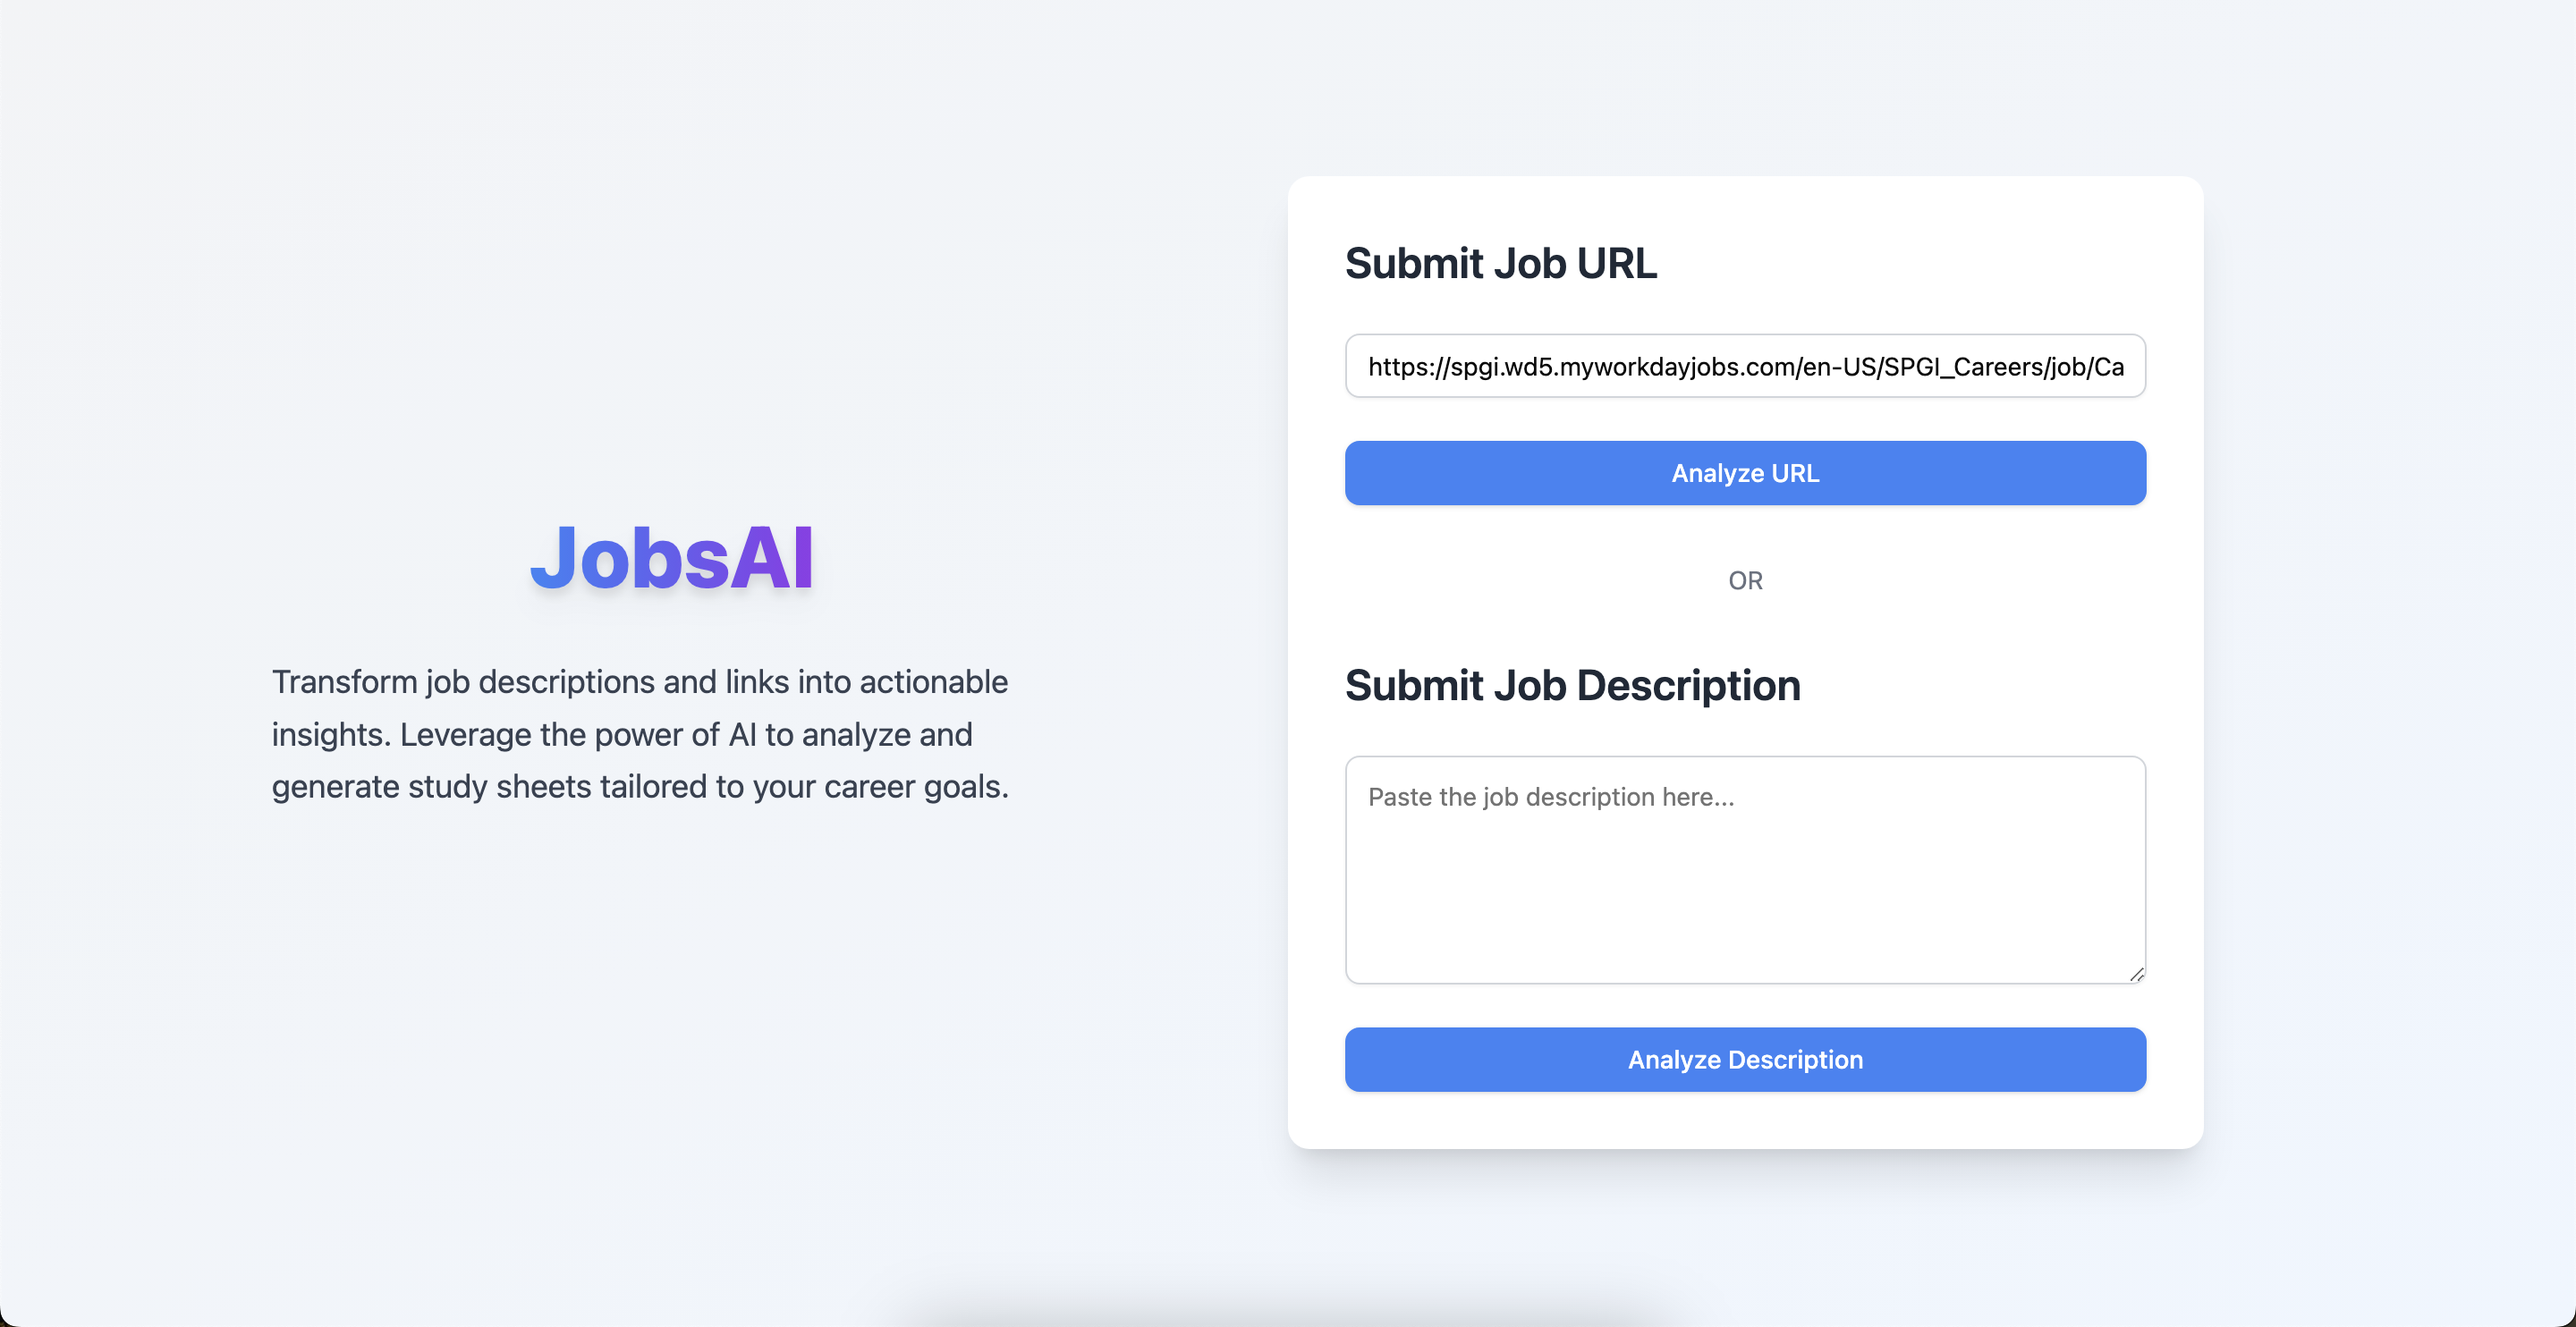
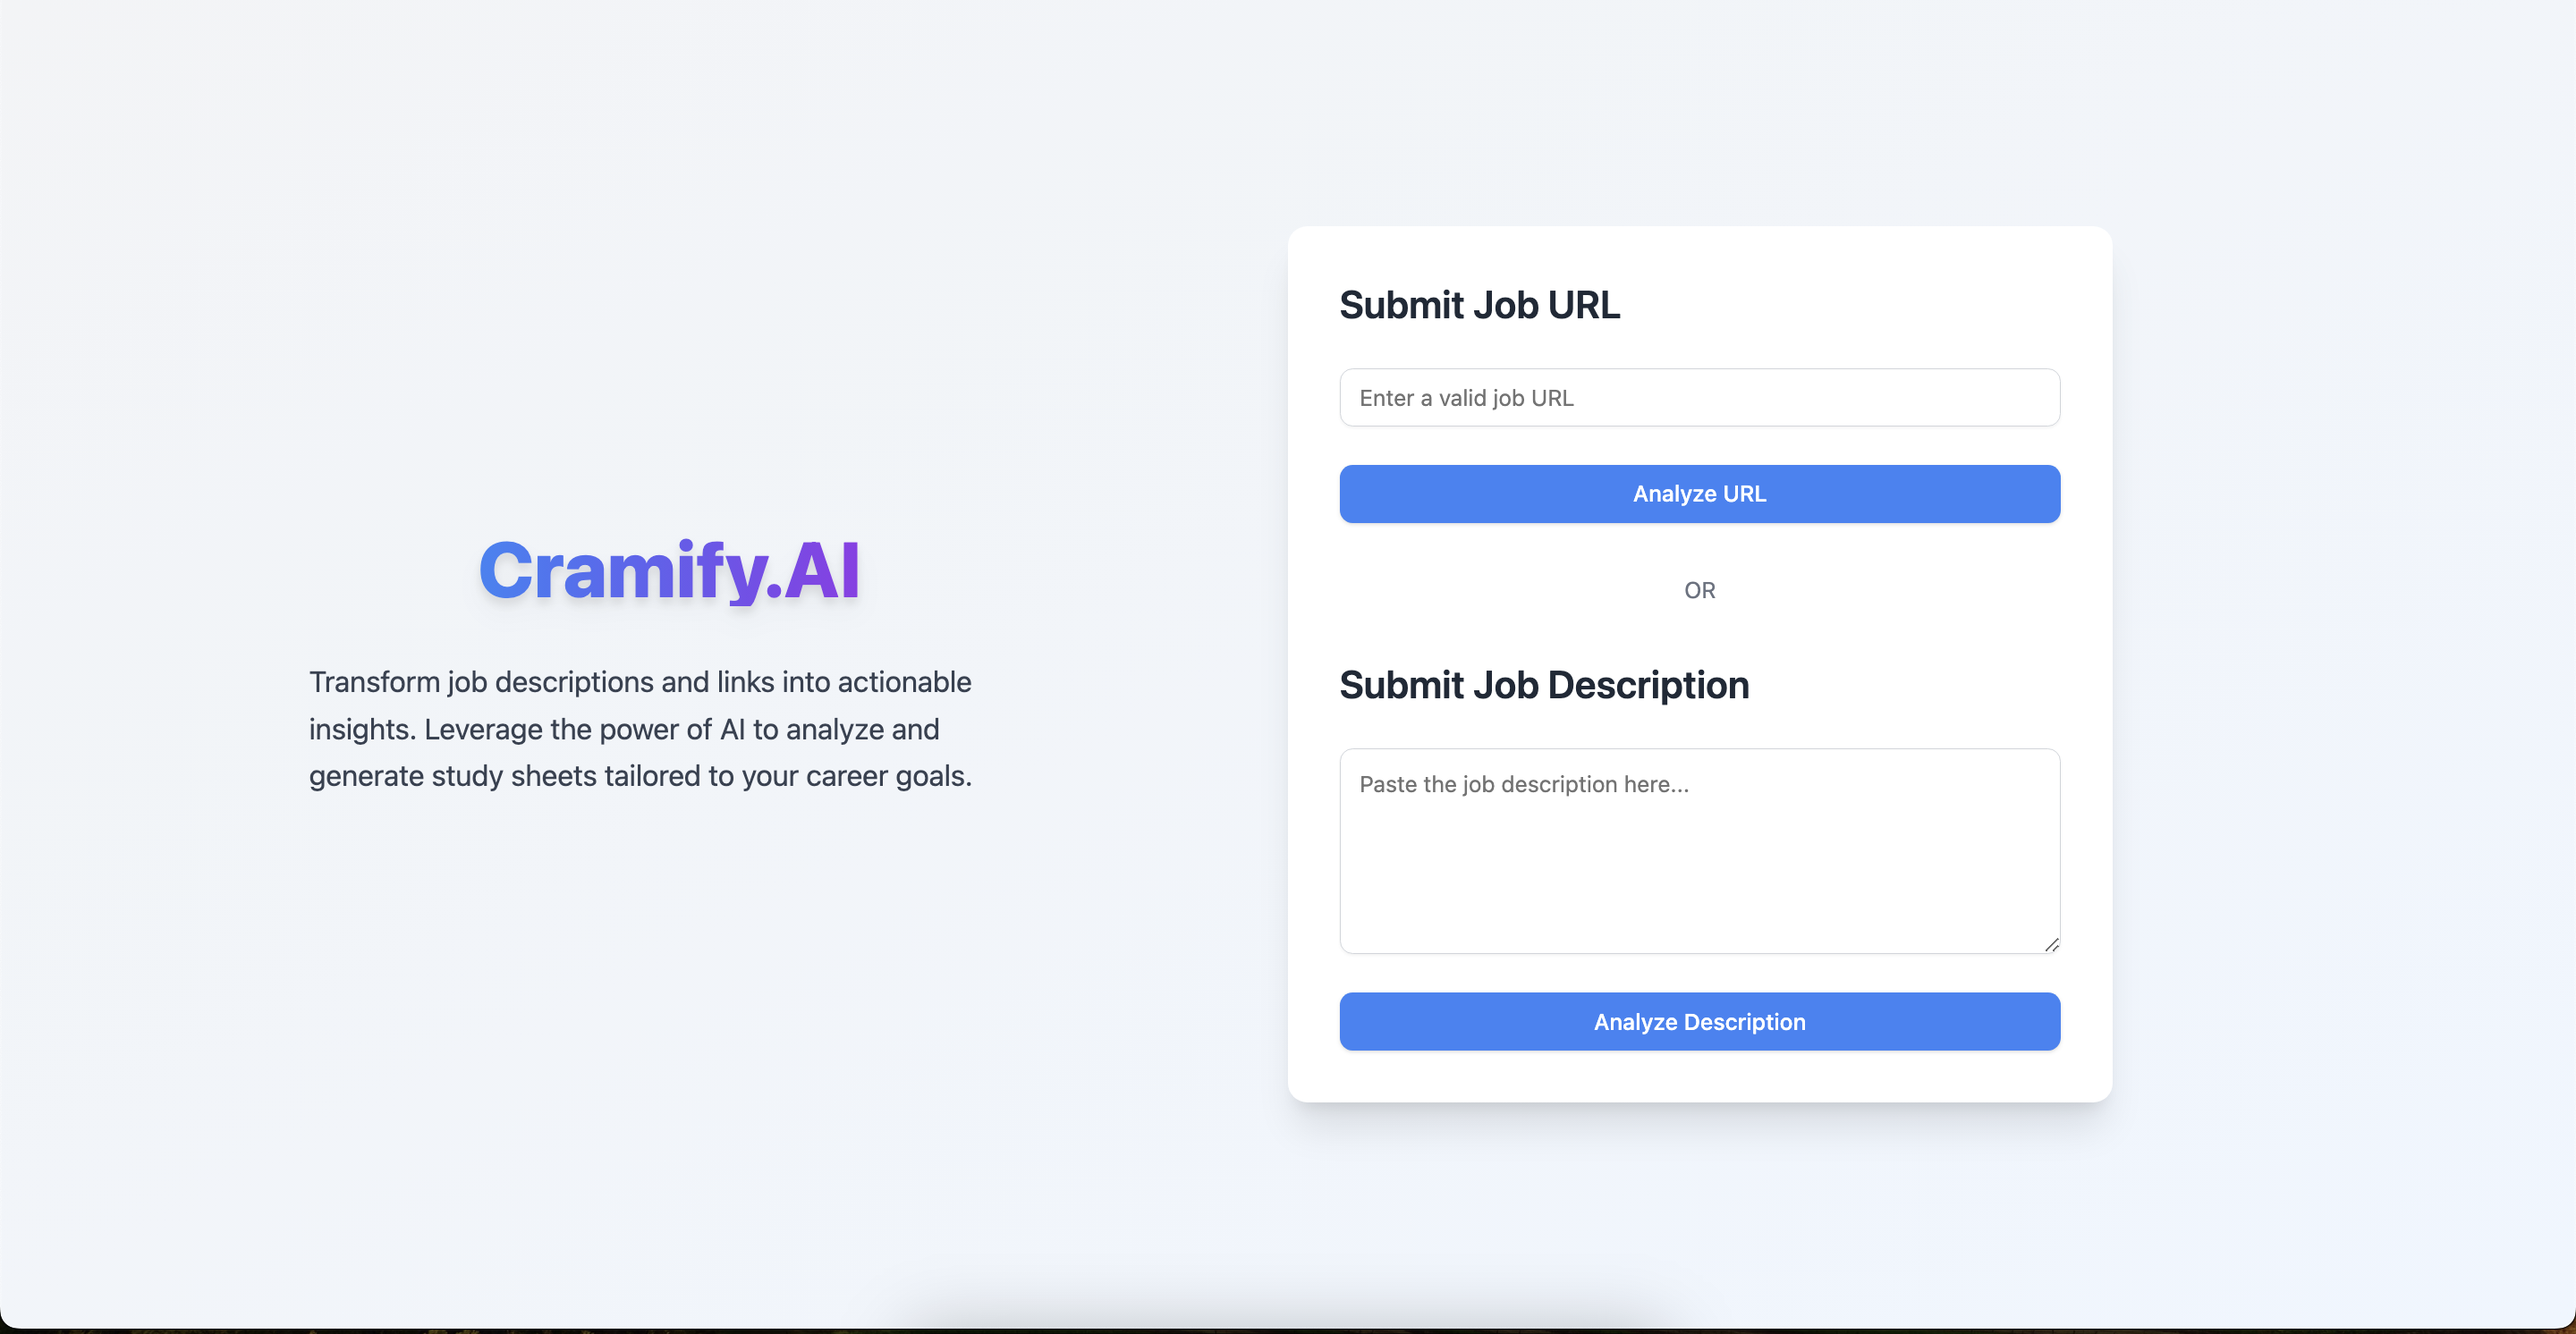
changed name

diff --git a/client/src/routes/landing.jsx b/client/src/routes/landing.jsx
@@ -109,7 +109,7 @@ export default function Landing() {
             {/* Heading Section */}
             <div className="flex flex-col items-center justify-center space-y-8 text-center md:text-left">
                 <h1 className="text-5xl font-extrabold text-transparent bg-clip-text bg-gradient-to-r from-blue-500 to-purple-600 drop-shadow-lg">
-                    JobsAI
+                    Cramify.AI
                 </h1>
                 <p className="text-lg text-gray-700 max-w-md mx-auto md:mx-0 leading-relaxed">
                     Transform job descriptions and links into actionable insights. Leverage the power of AI to analyze and generate study sheets tailored to your career goals.
